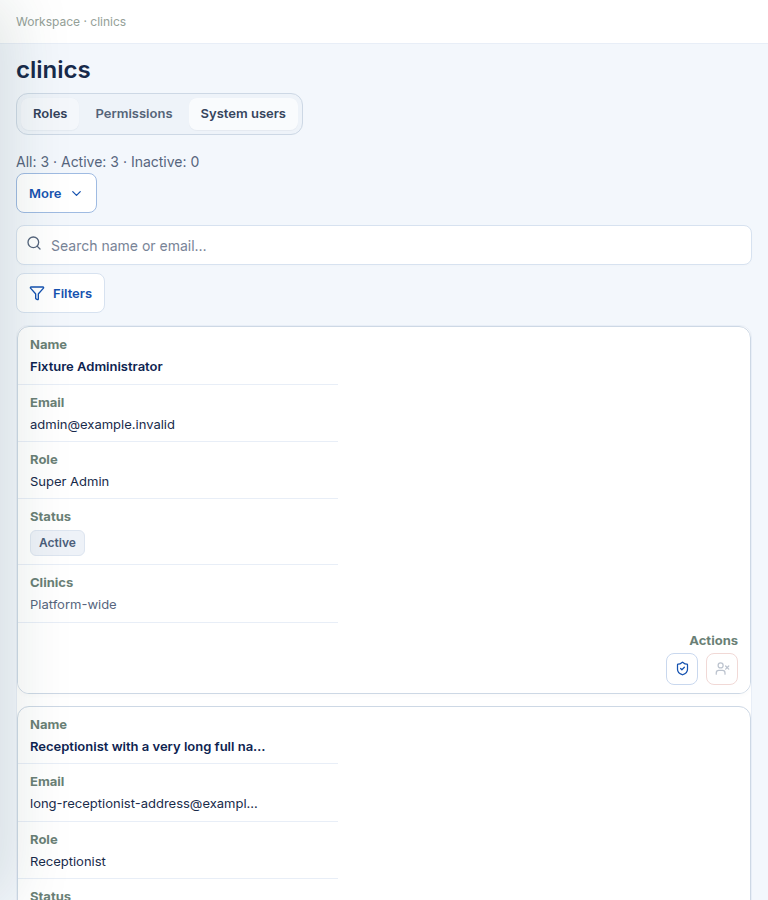
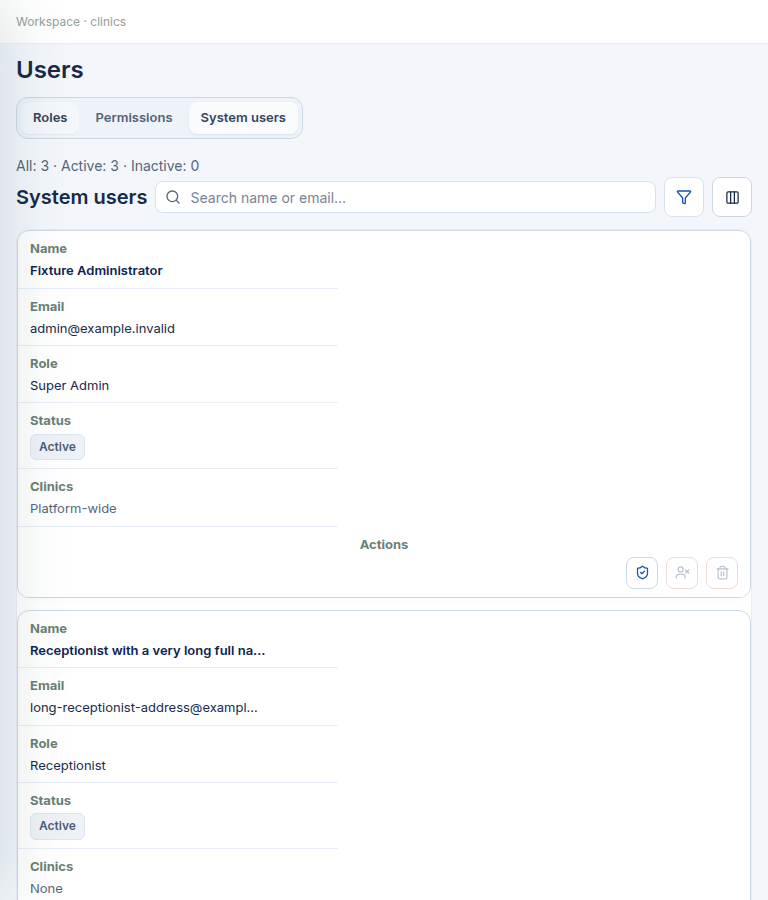
Refactor clinicflow user management and consolidate workspace styling
Replit-Commit-Author: Agent

diff --git a/artifacts/clinicflow/src/Users.tsx b/artifacts/clinicflow/src/Users.tsx
@@ -267,11 +267,12 @@ export function Users({ identity, clinicId, embedded=false }: { identity: api.Id
     {scheduleDoctor && <AppDialog open size="wide" title="Edit Doctor Schedule" dirty={scheduleDirty} busy={scheduleBusy} onClose={() => setScheduleDoctor(null)}>
       <DoctorScheduleContext doctor={scheduleDoctor} fixedClinicId={clinicId} canDelete onSaved={() => setScheduleDoctor(null)} onDirtyChange={setScheduleDirty} onBusyChange={setScheduleBusy}/>
     </AppDialog>}
-    {editing && <AppDialog open size="medium" onClose={() => setEditing(null)} title={editing.id||createdDoctor ? `Edit ${singular(editTab)}` : "Add Staff"} description={editing.id||createdDoctor ? undefined : "Enter the account details, then the work details."} dirty={dirty} busy={busy}>{roleConfirm.dialog}
-       {!editing.id && !createdDoctor && creatable.length > 1 && <div className="staff-role-picker"><SearchableSelect label="Role" required testId="select-add-staff-role" value={editTab} disabled={busy} onChange={value => { const next = creatable.find(item => item.id === value)?.id; if (next) void chooseRole(next); }} options={creatable.map(item => ({ value: item.id, label: singular(item.id) }))}/></div>}
-       {!editing.id && !createdDoctor && creatable.length === 1 && <p className="muted staff-role-picker" data-testid="text-add-staff-role">Role: <strong>{singular(editTab)}</strong></p>}
-       {editTab === "admins" && !editing.id ? <ClinicAdminOnboarding guided carry={carry} onSnapshot={(values,defaults)=>{snapshot.current={values:withoutPasswords(values),defaults};}} onDirtyChange={setDirty} onBusyChange={setBusy}/> :
-       <UserEditor key={`${editTab}:${editing.id||"new"}`} tab={editTab} initial={editing} onFirstSave={()=>{
+    {editing && (()=>{const isNew=!editing.id&&!createdDoctor;
+     // One role control for new staff: a selector when several roles are creatable, else a fixed label.
+     const roleField=!isNew?null:creatable.length>1?<div className="staff-role-picker"><SearchableSelect label="Role" required testId="select-add-staff-role" value={editTab} disabled={busy} onChange={value => { const next = creatable.find(item => item.id === value)?.id; if (next) void chooseRole(next); }} options={creatable.map(item => ({ value: item.id, label: singular(item.id) }))}/></div>:<p className="muted staff-role-picker" data-testid="text-add-staff-role">Role: <strong>{singular(editTab)}</strong></p>;
+     return <AppDialog open size="medium" onClose={() => setEditing(null)} title={editing.id||createdDoctor ? `Edit ${singular(editTab)}` : "Add Staff"} description={editing.id||createdDoctor ? undefined : "Enter staff details and assign their role, clinic and locations."} dirty={dirty} busy={busy}>{roleConfirm.dialog}
+       {editTab === "admins" && !editing.id ? <>{roleField}<ClinicAdminOnboarding guided carry={carry} onSnapshot={(values,defaults)=>{snapshot.current={values:withoutPasswords(values),defaults};}} onDirtyChange={setDirty} onBusyChange={setBusy}/></> :
+       <UserEditor key={`${editTab}:${editing.id||"new"}`} roleField={roleField} tab={editTab} initial={editing} onFirstSave={()=>{
          // A committed account must be findable even when its invitation fails
          // and the editor remains open. Old role/search/status filters must not
          // hide it when the administrator closes that saved-record dialog.
@@ -282,11 +283,11 @@ export function Users({ identity, clinicId, embedded=false }: { identity: api.Id
          q.delete("search");q.delete("open");q.set("tab",editTab);
          navigateTo(`${window.location.pathname}?${q}`,{replace:true});
        }} onCreated={(saved:any)=>{setScheduleDirty(false);setScheduleBusy(false);setScheduleDoctor(saved);}} carry={editing.id?undefined:carry} isSuperAdmin={isSuperAdmin} clinicId={clinicId} identity={identity} onDirtyChange={setDirty} onBusyChange={setBusy} onSnapshot={(values:Record<string,unknown>,defaults:Record<string,unknown>)=>{snapshot.current={values:withoutPasswords(values),defaults};}} onClose={(result:any) => { const wasEdit=!!editing.id;const savedTab=editTab;setEditing(null);if(!wasEdit&&savedTab!==tab){setTab(savedTab);setDraftTab(savedTab);}const legacySetup=result.invitationStatus&&result.invitationStatus!=="notRequired";const message=wasEdit?"Updated successfully":legacySetup?`${singular(savedTab)} added. ${securityChannelSummary(result.setupNotificationOutcomes)}`:`${singular(savedTab)} ${createSuccessMessage(result.status,result.staffCreationNotice)}`;if(!wasEdit&&legacySetup&&(result.invitationStatus==="failed"||Object.values(result.setupNotificationOutcomes||{}).some((c:any)=>!["provider_accepted","not_requested"].includes(c.status))))notifyWarning(message);else notifySuccess(message); }} />}
-    </AppDialog>}
+    </AppDialog>;})()}
   </>;
 }
 
-function UserEditor({ tab, initial: opened, carry, onClose, isSuperAdmin, onDirtyChange, onBusyChange, onSnapshot, clinicId, identity, onCreated, onFirstSave }: any) {
+function UserEditor({ roleField, tab, initial: opened, carry, onClose, isSuperAdmin, onDirtyChange, onBusyChange, onSnapshot, clinicId, identity, onCreated, onFirstSave }: any) {
   const [initial, setSaved] = useState(opened);
   const scheduleDirty = false, scheduleBusy = false;
   const [savedMessage, setSavedMessage] = useState("");
@@ -374,7 +375,7 @@ function UserEditor({ tab, initial: opened, carry, onClose, isSuperAdmin, onDirt
   return <div className={tab==="doctors"?"doctor-editor":undefined} data-details-dirty={tab==="doctors"?String(form.formState.isDirty):undefined} data-schedule-dirty={tab==="doctors"?String(scheduleDirty):undefined}><Form {...form}>{confirmAction.dialog}<form className="form-grid staff-editor" inert={save.isPending||scheduleBusy?true:undefined} noValidate onSubmit={submitWithNativeChecks(form, onSubmit, onInvalid)}>
     {staffTabs && <FormTabs tabs={staffTabs.map(t => t.label)} active={activeTab} onChange={setActiveTab} invalid={tabInvalid}/>}
     <div className={panel(0)} role={staffTabs ? "tabpanel" : undefined}>
-    <FormSection title={initial.id?"Staff details":"Account"} hint={initial.id?"Name and contact details.":"Staff sign in with this email and password."}>
+    <FormSection title={initial.id?"Staff details":"Account Details"} hint={initial.id?"Name and contact details.":undefined} className={initial.id?undefined:"staff-create-section"}>
     <StaffAccountFields control={form.control} register={form.register} errors={form.formState.errors} getValues={form.getValues as any} withPassword={!initial.id}/>
     </FormSection>
     <Controller name="status" control={form.control} render={({field})=><div className="wide"><StatusSwitch label="Staff Account Active" active={field.value==="active"} disabled={!!initial.id&&(initial.id===identity.user?.id||initial.userId===identity.user?.id)} onChange={async active=>{if(!active&&!await confirmAction.ask({title:"Deactivate Staff Member?",description:"They will lose access. Ownership restrictions may prevent this change.",confirmLabel:"Deactivate",tone:"danger"}))return;field.onChange(active?"active":"inactive");}}/>{initial.id&&(initial.id===identity.user?.id||initial.userId===identity.user?.id)&&<small className="muted">Your own account cannot be deactivated here.</small>}</div>}/>
@@ -384,7 +385,8 @@ function UserEditor({ tab, initial: opened, carry, onClose, isSuperAdmin, onDirt
     </FormSection></div>}
 
     {tab === "admins" && initial.id && <OwnedClinicInformation key={initial.id} adminId={initial.id}/>}
-    {tab !== "admins" && <div id="doctor-assignments" className={panel(tab === "doctors" ? 2 : 1)} role={staffTabs?"tabpanel":undefined}><FormSection title={tab==="doctors"?"Assignments":"Assignment"} hint="Which Clinics and locations this person works at.">
+    {tab !== "admins" && <div id="doctor-assignments" className={panel(tab === "doctors" ? 2 : 1)} role={staffTabs?"tabpanel":undefined}><FormSection title={initial.id?tab==="doctors"?"Assignments":"Assignment":"Work Assignment"} hint={initial.id?"Which Clinics and locations this person works at.":"Select the role and assign the clinic and locations for this staff member."} className={initial.id?undefined:"staff-create-section staff-assignment-row"}>
+       {!initial.id&&roleField&&<div className="staff-role-cell">{roleField}</div>}
        <div className="wide"><Controller name="clinicIds" control={form.control} rules={{ validate: v => !!v?.length || "Select at least one Clinic." }} render={({ field }) => clinicId?<><label>Clinic</label><div className="doctor-context-value">{fixedClinic.data?.name||records.current.get(clinicId)?.name||(fixedClinic.isLoading?"Loading clinic…":"Current clinic")}</div>{fixedClinic.error&&<><ErrorNotice error={fixedClinic.error}/><button type="button" onClick={()=>void fixedClinic.refetch()}>Retry Fixed Clinic Details</button></>}</>:<ResourceMultiLookup id="input-clinicIds" label="Clinics" required error={form.formState.errors.clinicIds?.message as string} resource="assignment:clinics" params={{ ...optionsParams, managingAdminId: isSuperAdmin ? firstOwner : undefined }} value={field.value || []} onRecords={remember} isOptionDisabled={row=>!!firstOwner&&row?.adminId!==firstOwner||!!clinicId&&row?.id!==clinicId&&!selectedClinics.includes(row?.id)} onChange={ids => {
          if(clinicId){field.onChange([...new Set([...(initial.clinicIds||[]).filter((id:string)=>id!==clinicId),clinicId])]);return;}
         const removed = selectedClinics.filter(id => !ids.includes(id));

diff --git a/artifacts/clinicflow/workspace-regression/tests/users-administration.spec.ts b/artifacts/clinicflow/workspace-regression/tests/users-administration.spec.ts
@@ -115,3 +115,66 @@ for(const width of [1440,768,390])test(`role and account actions remain accessib
   await page.getByTestId("button-status-desk").click();await expect(page.getByTestId("confirm-dialog-confirm")).toBeInViewport();
   await page.screenshot({path:`screenshots/users-administration-confirm-${width}.png`});
 });
+test("Add Staff shows Account Details above Work Assignment with paired rows, honest verification and role-specific footer",async({page})=>{
+  const state=await fixture(page);await page.setViewportSize({width:1440,height:900});await page.goto("/?mode=staff&tab=receptionists");
+  await page.getByTestId("button-add-staff").click();
+  const dialog=page.getByRole("dialog");
+  await expect(dialog.getByRole("heading",{name:"Account Details"})).toBeVisible();
+  await expect(dialog.getByRole("heading",{name:"Work Assignment"})).toBeVisible();
+  await expect(dialog.getByRole("tab")).toHaveCount(0);
+  const box=async(l:ReturnType<Page["locator"]>)=>(await l.first().boundingBox())!;
+  const name=await box(dialog.getByLabel("Full Name")),email=await box(dialog.getByTestId("input-user-email"));
+  expect(Math.abs(name.y-email.y)).toBeLessThan(4);expect(email.x).toBeGreaterThan(name.x+name.width-1);
+  const pw=await box(dialog.getByTestId("input-staff-password")),cpw=await box(dialog.getByTestId("input-staff-confirm-password"));
+  expect(Math.abs(pw.y-cpw.y)).toBeLessThan(4);
+  await expect(dialog.getByTestId("text-password-policy")).toBeVisible();
+  await expect(dialog.getByTestId("status-email-verification")).toContainText("Not verified");
+  await expect(dialog.getByTestId("status-mobile-verification")).toContainText("Not verified");
+  const assignment=dialog.locator(".staff-assignment-row");
+  await expect(assignment.getByTestId("select-add-staff-role")).toBeVisible();
+  await expect(dialog.locator(".staff-account-fields").getByTestId("select-add-staff-role")).toHaveCount(0);
+  const role=await box(assignment.getByTestId("select-add-staff-role"));
+  const clinic=await box(assignment.locator("#input-clinicIds"));
+  expect(Math.abs(role.y-clinic.y)).toBeLessThan(40);expect(clinic.x).toBeGreaterThan(role.x+role.width-1);
+  await expect(dialog.getByTestId("button-cancel-staff")).toBeVisible();
+  await expect(dialog.getByTestId("button-save-staff")).toContainText(/^Add (Doctor|Receptionist)$/);
+  await expect(dialog.locator(".status-switch-track")).toBeVisible();
+  await expect(dialog.getByRole("switch",{name:"Staff Account Active"})).toBeChecked();
+  expect(state.writes).toHaveLength(0);
+  await mkdir("generated-artifacts/staff-popup",{recursive:true});
+  await dialog.screenshot({path:"generated-artifacts/staff-popup/receptionist-desktop.png"});
+  await dialog.getByTestId("button-save-staff").click();
+  await expect(dialog.getByTestId("input-user-email")).toHaveAttribute("aria-invalid","true");
+  await expect(dialog.getByTestId("input-user-email")).toHaveAttribute("aria-describedby",/.+-error/);
+  expect(state.writes).toHaveLength(0);
+});
+
+for(const tab of ["doctors","receptionists"])test(`Add ${tab} layout stays contained on phone, tablet and laptop`,async({page})=>{
+  const state=await fixture(page);
+  await page.goto(`/?mode=staff&tab=${tab}&fixtureRole=clinicAdmin`);
+  await page.getByTestId("button-add-staff").click();
+  const dialog=page.getByRole("dialog");
+  await expect(dialog.getByRole("heading",{name:"Work Assignment"})).toBeVisible();
+  for(const width of [390,768,1024,1366]){
+    await page.setViewportSize({width,height:768});
+    await expect.poll(async()=>dialog.evaluate(el=>{
+      const root=el.getBoundingClientRect();
+      return root.left>=-1&&root.right<=innerWidth+1&&root.top>=-1&&root.bottom<=innerHeight+1;
+    })).toBe(true);
+    await expect.poll(async()=>dialog.locator("input:not([type=hidden]),.staff-verify,.searchable-select-control").evaluateAll(nodes=>nodes.every(el=>{
+      const rect=el.getBoundingClientRect(),root=el.closest('[role="dialog"]')!.getBoundingClientRect();
+      return rect.width===0||(rect.left>=root.left-1&&rect.right<=root.right+1);
+    }))).toBe(true);
+    const password=dialog.getByTestId("input-staff-password"),confirm=dialog.getByTestId("input-staff-confirm-password");
+    await expect.poll(async()=>{
+      const a=(await password.boundingBox())!,b=(await confirm.boundingBox())!;
+      return width<768?b.y>a.y:Math.abs(a.y-b.y)<4;
+    }).toBe(true);
+    await dialog.getByTestId("button-save-staff").scrollIntoViewIfNeeded();
+    await expect(dialog.getByTestId("button-save-staff")).toBeInViewport();
+    await expect(dialog.getByTestId("button-save-staff")).toHaveText(tab==="doctors"?"Add Doctor":"Add Receptionist");
+    await mkdir("generated-artifacts/staff-popup",{recursive:true});
+    await dialog.screenshot({path:`generated-artifacts/staff-popup/${tab}-${width}.png`});
+  }
+  expect(state.writes).toHaveLength(0);
+});

diff --git a/artifacts/clinicflow/src/components/StaffAccountFields.tsx b/artifacts/clinicflow/src/components/StaffAccountFields.tsx
@@ -3,21 +3,26 @@ import { EmailInput } from "@/components/EmailInput";
 import { FormField } from "./FormField";
 import { PhoneInput } from "./PhoneInput";
 import { PasswordInput } from "./PasswordInput";
-import { required, validateEmail, validatePersonName, validatePhone } from "../lib/validators";
+import { PASSWORD_RULE, required, validateEmail, validatePersonName, validatePhone } from "../lib/validators";
 import { passwordPairError } from "../lib/staff-account";
+import { Mail, Phone } from "lucide-react";
+
+/** Passive status only: verification is completed by the staff member after sign-in. */
+const NotVerified = ({ icon, testId }: { icon: "mail" | "phone"; testId: string }) => <span className="staff-verify" data-testid={testId}>{icon === "mail" ? <Mail size={16} aria-hidden /> : <Phone size={16} aria-hidden />}<span className="badge" role="status">Not verified</span></span>;
 
 type Props = { control: Control<any>; register: UseFormRegister<any>; errors: FieldErrors<any>; getValues: (name: string) => unknown; withPassword: boolean };
 
 /** Shared Add/Edit account fields. Password fields exist on create only. */
 export function StaffAccountFields({ control, register, errors, getValues, withPassword }: Props) {
   const msg = (key: string) => errors[key]?.message as string | undefined;
-  return <>
+  return <div className={withPassword ? "staff-account-fields is-create" : "staff-account-fields"}>
     <FormField id="input-fullName" label="Full Name" required error={msg("fullName")}><input autoComplete="off" {...register("fullName", { validate: (v: unknown) => required()(v) || validatePersonName(v) || true })} /></FormField>
-    <FormField label="Email (used to sign in)" required error={msg("email")}><EmailInput autoComplete="off" data-testid="input-user-email" {...register("email", { validate: (v: unknown) => required()(v) || validateEmail(v) || true })} /></FormField>
-    <Controller name="mobile" control={control} rules={{ validate: (v: unknown) => (withPassword ? required()(v) : undefined) || validatePhone(v) || true }} render={({ field }) => <FormField label="Mobile" required={withPassword} optional={!withPassword} error={msg("mobile")}><PhoneInput {...field} value={field.value || ""} /></FormField>} />
+    <FormField label="Email (used to sign in)" required error={msg("email")}>{a11y => <div className="staff-verify-row"><EmailInput autoComplete="off" data-testid="input-user-email" {...register("email", { validate: (v: unknown) => required()(v) || validateEmail(v) || true })} {...a11y} />{withPassword && <NotVerified icon="mail" testId="status-email-verification" />}</div>}</FormField>
+    <Controller name="mobile" control={control} rules={{ validate: (v: unknown) => (withPassword ? required()(v) : undefined) || validatePhone(v) || true }} render={({ field }) => <FormField className={withPassword ? "staff-account-mobile" : undefined} label="Mobile" required={withPassword} optional={!withPassword} error={msg("mobile")}>{a11y => <div className="staff-verify-row"><PhoneInput {...field} {...a11y} value={field.value || ""} />{withPassword && <NotVerified icon="phone" testId="status-mobile-verification" />}</div>}</FormField>} />
     {withPassword && <>
-      <FormField label="Password" required error={msg("password")}><PasswordInput showChecklist autoComplete="new-password" data-testid="input-staff-password" {...register("password", { validate: (v: unknown) => passwordPairError(v, "x").password || true })} /></FormField>
+      <FormField label="Password" required error={msg("password")}><PasswordInput autoComplete="new-password" data-testid="input-staff-password" {...register("password", { validate: (v: unknown) => passwordPairError(v, "x").password || true })} /></FormField>
       <FormField label="Confirm Password" required error={msg("confirmPassword")}><PasswordInput autoComplete="new-password" visibilityLabel="confirm password" data-testid="input-staff-confirm-password" {...register("confirmPassword", { validate: (v: unknown) => passwordPairError(getValues("password"), v).confirmPassword || true })} /></FormField>
+      <small className="muted staff-password-help" data-testid="text-password-policy">{PASSWORD_RULE}</small>
     </>}
-  </>;
+  </div>;
 }

diff --git a/artifacts/clinicflow/src/compact-workspace.css b/artifacts/clinicflow/src/compact-workspace.css
@@ -55,14 +55,14 @@
 .workspace .row-actions{align-items:center;gap:var(--space-1)}
 
 /* Labelled activation switch */
-.workspace .status-switch{display:inline-flex;align-items:center;gap:var(--space-2);min-height:30px;padding:0;border:0;background:none;font-size:var(--type-label);font-weight:600;color:var(--cw-soft);cursor:pointer}
-.workspace .status-switch-track{position:relative;flex:0 0 32px;width:32px;height:18px;border-radius:999px;background:#c5d0de;transition:background .15s}
-.workspace .status-switch-track::after{content:"";position:absolute;top:2px;left:2px;width:14px;height:14px;border-radius:50%;background:var(--dq-surface);box-shadow:0 1px 2px #0d235040;transition:transform .15s}
-.workspace .status-switch[aria-checked=true] .status-switch-track,.workspace .status-switch input:checked+.status-switch-track{background:#2f8a57}
-.workspace .status-switch[aria-checked=true] .status-switch-track::after,.workspace .status-switch input:checked+.status-switch-track::after{transform:translateX(14px)}
-.workspace .status-switch[aria-checked=true],.workspace .status-switch:has(input:checked){color:#23704a}
-.workspace .status-switch:focus-visible,.workspace .status-switch:has(input:focus-visible){outline:2px solid #12a4cc;outline-offset:2px;border-radius:6px}
-.workspace .status-switch:disabled,.workspace .status-switch[aria-disabled=true]{opacity:.5;cursor:not-allowed}
+:is(.workspace,.app-dialog) .status-switch{display:inline-flex;align-items:center;gap:var(--space-2);min-height:30px;padding:0;border:0;background:none;font-size:var(--type-label);font-weight:600;color:var(--soft);cursor:pointer}
+:is(.workspace,.app-dialog) .status-switch-track{position:relative;flex:0 0 32px;width:32px;height:18px;border-radius:999px;background:#c5d0de;transition:background .15s}
+:is(.workspace,.app-dialog) .status-switch-track::after{content:"";position:absolute;top:2px;left:2px;width:14px;height:14px;border-radius:50%;background:var(--dq-surface);box-shadow:0 1px 2px #0d235040;transition:transform .15s}
+:is(.workspace,.app-dialog) .status-switch[aria-checked=true] .status-switch-track,:is(.workspace,.app-dialog) .status-switch input:checked+.status-switch-track{background:#2f8a57}
+:is(.workspace,.app-dialog) .status-switch[aria-checked=true] .status-switch-track::after,:is(.workspace,.app-dialog) .status-switch input:checked+.status-switch-track::after{transform:translateX(14px)}
+:is(.workspace,.app-dialog) .status-switch[aria-checked=true],:is(.workspace,.app-dialog) .status-switch:has(input:checked){color:#23704a}
+:is(.workspace,.app-dialog) .status-switch:focus-visible,:is(.workspace,.app-dialog) .status-switch:has(input:focus-visible){outline:2px solid #12a4cc;outline-offset:2px;border-radius:6px}
+:is(.workspace,.app-dialog) .status-switch:disabled,:is(.workspace,.app-dialog) .status-switch[aria-disabled=true]{opacity:.5;cursor:not-allowed}
 
 /* Button groups: primary + secondary together, destructive separated */
 .workspace .button-group{display:inline-flex;align-items:center;gap:var(--space-2);flex-wrap:wrap}

diff --git a/artifacts/clinicflow/src/components/workspace-consolidation.css b/artifacts/clinicflow/src/components/workspace-consolidation.css
@@ -19,3 +19,21 @@
 .schedule-bar .workspace-tabs{margin:0}
 .app-dialog-wide.app-dialog-medium{max-width:min(820px,calc(100vw - 1.5rem))}
 @media(max-width:639px){.app-dialog-wide.app-dialog-medium{max-width:100vw}}
+
+/* Add Staff (create only): paired rows, passive verification, role/clinic/locations row. Edit layout is untouched. */
+.staff-account-fields{display:contents}
+.staff-account-fields.is-create{grid-column:1/-1;display:grid;grid-template-columns:repeat(2,minmax(0,1fr));gap:12px 16px;align-items:start}
+.staff-account-mobile{grid-column:1/-1}
+.staff-account-mobile>.staff-verify-row{max-width:32rem}
+.staff-verify-row{display:flex;align-items:center;gap:8px;min-width:0}
+.staff-verify-row>:first-child{flex:1 1 auto;min-width:0}
+.staff-verify{display:inline-flex;align-items:center;gap:8px;flex:none;white-space:nowrap}
+.staff-verify .badge{color:var(--feedback-error-fg);background:var(--feedback-error-bg)}
+.staff-password-help{grid-column:1/-1;margin-top:-4px}
+.staff-create-section .staff-role-picker{max-width:none}
+.staff-assignment-row .form-section-grid{grid-template-columns:repeat(3,minmax(0,1fr))}
+.staff-assignment-row .form-section-grid>.wide,.staff-assignment-row .form-section-grid>.staff-role-cell{grid-column:auto;min-width:0}
+@media (max-width:767px){
+  .staff-account-fields.is-create,.staff-assignment-row .form-section-grid{grid-template-columns:minmax(0,1fr)}
+  .staff-verify-row{flex-wrap:wrap}
+}

diff --git a/artifacts/clinicflow/src/components/doctor-editor.css b/artifacts/clinicflow/src/components/doctor-editor.css
@@ -3,8 +3,8 @@
 .doctor-editor .staff-editor{display:grid;gap:12px;min-width:0}
 .doctor-editor .form-section{padding:12px 16px 16px;border-radius:12px;min-width:0}
 .doctor-editor .form-section-head{margin-bottom:12px;padding-bottom:8px}
-.doctor-editor .form-section-grid{grid-template-columns:repeat(auto-fit,minmax(min(100%,13rem),1fr));gap:12px 16px}
-.doctor-editor .form-section-grid>:is(.wide,.full,.notice,:has(textarea),:has(.address-fields)){grid-column:1/-1}
+.doctor-editor .form-section:not(.staff-assignment-row)>.form-section-grid{grid-template-columns:repeat(auto-fit,minmax(min(100%,13rem),1fr));gap:12px 16px}
+.doctor-editor .form-section:not(.staff-assignment-row)>.form-section-grid>:is(.wide,.full,.notice,:has(textarea),:has(.address-fields)){grid-column:1/-1}
 .doctor-editor .form-field{min-width:0}
 .doctor-editor .form-field>.form-field-label{min-height:20px}
 .doctor-editor :is(input,select,textarea):not([type=checkbox],[type=radio]){min-height:40px;max-width:100%;box-sizing:border-box}

diff --git a/docs/ui/compact-ui-coverage.md b/docs/ui/compact-ui-coverage.md
@@ -204,3 +204,31 @@ against a disposable database rather than by completing the whole browser form.
 an independent rendered comparison of unchanged Clinic Details/Notifications
 were not exhaustively repeated. Existing merged semantic-control acceptance
 checks remain the baseline. No UAT deployment or live delivery is implied.
+
+## Add Staff reference layout
+
+New doctor/receptionist forms reuse the existing account fields, sections,
+assignment lookups, dialog and footer. Account Details and Work Assignment remain
+visible together; the role control belongs to assignments. Clinic-admin
+onboarding and existing-record editing retain their distinct requirements.
+Verification badges are passive create-time indicators, not delivery actions.
+
+Verification:
+- Shared-library and frontend typechecks passed.
+- Production build passed with the configured artifact port/base path; existing
+  large-chunk advisory remains.
+- Users administration plus staff toolbar fixture suites: 11 passed. After
+  correcting the portalled activation switch's shared CSS scope, the three
+  changed popup cases passed again.
+- Five staff role-switch checks passed; outdated source assertions now reflect
+  the existing password-redacted snapshots, lookup primitives and save callbacks.
+- Responsive create forms checked at 390, 768, 1024 and 1366px, including paired
+  fields, horizontal control containment and reachable submit buttons.
+- Empty-submit email accessibility/error associations and visible activation
+  switch checked. Inventory freshness passed.
+- Popup screenshots: `generated-artifacts/staff-popup/`. The restarted actual
+  Preview sign-in page rendered without browser errors.
+
+These are fictional/intercepted role checks, not authentication as the supplied
+clinic administrator. No real staff creation, provider delivery, UAT verification,
+200% zoom or exhaustive keyboard/touch traversal is claimed.

diff --git a/.agents/memory/visual-cascade.md b/.agents/memory/visual-cascade.md
@@ -158,6 +158,15 @@ in the assignment row, and Cancel plus a role-specific Add action in the footer.
 **How to apply:** Preserve role permissions and staff-owned contact verification;
 the reference is a presentation requirement, not permission to create staff or send messages.
 
+Shared controls rendered through a dialog portal need their style owner to cover
+dialog ancestry, not just workspace ancestry.
+
+**Why:** A native activation switch remained operable but its visible track
+disappeared in a portal because only the workspace supplied its track styling.
+
+**How to apply:** Inspect the visible control in the actual overlay tree; extend
+its existing style owner rather than copying switch markup or adding local overrides.
+
 If an existing position assertion fails, reproduce it against untouched source
 before changing either CSS or its tolerance. A bounded subpixel allowance needs
 matching original-source evidence; waiting longer cannot fix a settled baseline
